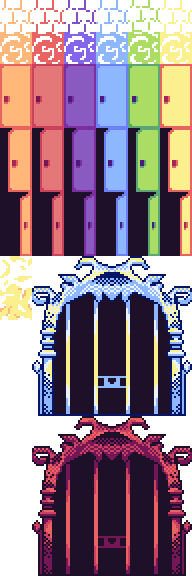
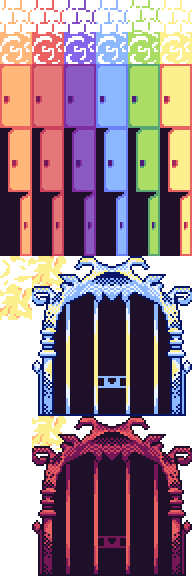
collisions added - small changes in assets * Collisions added, checked in Player for items of current map.   (coins treated seperately, TODO: dont draw when picked up) * Small edits in maps (assets/level-data.json) because coordinates of tile positions were changed. * Small fix in map tiles png

Changed region(s): [[0.1562, 0.7188, 0.3438, 0.7812], [0.1562, 0.4375, 0.3438, 0.5]]

diff --git a/source/tile.js b/source/tile.js
@@ -16,14 +16,14 @@ class Tile {
         this.height = height;
 
         // Fix y coordinate, to align big items with other blocks
-        this.x = x;
-        this.y = ( (width==1 & height==1) ? y : (y + (tilewidth/2)*(height-1)) );
+        this.x = ( (width==1 & height==1) ? x : (x + (tilewidth/2)*(this.width-1)) );
+        this.y = ( (width==1 & height==1) ? y : (y + (tilewidth/2)*(this.height-1)) );
 
         this.sprite = createSprite(this.x, this.y, width*tilewidth, height*tilewidth);
         this.sprite.collider = 'static';
         if (this.type == "tile") {
             this.name = (tile_info[index].split(' '))[0];
-            this.has_collissions = ((tile_info[index].split(' '))[3]) == "y" ? true : false;
+            this.has_collissions = (this.name.startsWith("wall") || this.name.startsWith("door")) ? true : false;
         } else if (this.type == "item") {
             this.name = (item_info[index].split(' '))[0];
             this.has_collissions = ((item_info[index].split(' '))[3]) == "y" ? true : false;
@@ -35,7 +35,7 @@ class Tile {
         this.sprite.changeAnimation("first");
 
         // FOR TESTING (to view some animations) // TODO: remove
-        if (this.name.startsWith("door") || this.name.startsWith("bed") || this.name.startsWith("suitcase") || this.name.startsWith("chest")){
+        if ((this.name.startsWith("door") && !this.name.startsWith("door_paradise") && !this.name.startsWith("door_hell")) || this.name.startsWith("bed") || this.name.startsWith("suitcase") || this.name.startsWith("chest")){
             this.sprite.changeAnimation("animation");
         }
     }
@@ -74,40 +74,27 @@ class Tile {
         if (!this.has_collissions){
             return;
         }
-        if (width == 1 && height == 1){
-            this.collide_bottom = this.sprite.y + tileheight;
-            this.collide_top    = this.sprite.y;
+
+        if (this.height == 1 /*|| (this.name.startsWith("plant") && this.height == 2)*/){
+            this.collide_top = this.sprite.y + tilewidth/2;
+            this.collide_bottom = this.sprite.y + (tilewidth * 3/2);
         } else {
-            this.collide_top    = this.sprite.y + tilewidth;
-            this.collide_bottom = this.sprite.y + this.height * tilewidth;
+            this.collide_top = this.sprite.y - (tilewidth/(this.height*0.5))*(this.height-1);
+            this.collide_bottom = this.collide_top + this.height * tilewidth;
         }
-        this.collide_left  = this.sprite.x - tilewidth;
-        this.collide_right = this.sprite.x + tilewidth;
+
+        if (this.width == 1) {
+            this.collide_left   = this.sprite.x - tilewidth * 3/4;
+            this.collide_right  = this.sprite.x + tilewidth * 3/4;
+        } else {
+            this.collide_left   = this.sprite.x - tilewidth * this.width/2;
+            this.collide_right  = this.sprite.x + tilewidth * this.width/2;
+        }
+        
+        
 
         if (this.name.startsWith("book_leaves")){ // Player shouldn't collide with leaves, obly with book
             this.collide_left = this.collide_left + tilewidth;
-        }
-    }
-
-    /**
-     * Check if block collides with other block.
-     * @param {Tile} tile2 tile to check collision with
-     * @returns true if collission happens, false if not
-     */
-    checkCollision(tile2) {
-        // If one or both items are non-interactive (floor, grass,etc)
-        if (!this.has_collissions || !tile2.has_collissions) {
-            return false;
-        }
-
-        // If both have collision interaction
-        if (this.collide_top   > tile2.bottom 
-        || this.collide_bottom < tile2.top 
-        || this.collide_right  < tile2.left
-        || this.collide_left   > tile2.right) {
-            return false;
-        } else {
-            return true;
         }
     }
 
@@ -154,7 +141,7 @@ class Tile {
         while (true) {
             indexList[i] = index-1;
 
-            if (this.name.startsWith("wall")) {
+            if (this.name.startsWith("wall") || this.name.startsWith("door_paradise") || this.name.startsWith("door_hell")) {
                 break; // walls dont have animation
             }
             

diff --git a/source/player.js b/source/player.js
@@ -4,7 +4,7 @@ class Player {
     this.x = x;
     this.y = y;
     this.index = index - 1
-    this.speed = 3;
+    this.speed = 8;
     this.width = 2;
     this.height = 2;
     this.sprite = createSprite(this.x, this.y, 2 * tilewidth, 2 * tilewidth);
@@ -15,6 +15,8 @@ class Player {
   }
 
   update() {
+    let oldy = this.sprite.position.y;
+    let oldx = this.sprite.position.x;
     if  (kb.pressing(UP_ARROW)) {
       this.sprite.position.y -= this.speed;
       // this.shadow.position.y -= this.speed;
@@ -33,9 +35,25 @@ class Player {
       this.changeAnimation("walking_right");
       // this.shadow.position.x += this.speed;
     }
-    if (this.sprite.overlap(gameMap.coins, this.getCoins)) {
-      this.coins += 1;
 
+    // Check collisions
+    for (let i=0; i<interract_blocks[stage].length; i++) {
+        if (this.checkCollision(interract_blocks[stage][i])) { 
+            console.log("[Collision] Player -",interract_blocks[stage][i].name);
+            if (interract_blocks[stage][i].name.startsWith("coin")) { // coin
+                // Add coin
+                this.coins += 1;
+                // Remove coin from collision detectable items
+                interract_blocks[stage].splice(i, 1);
+                // TODO: not draw coin
+                // IDEA: change animation
+                
+                // console.log(this.coins); // TODO: remove
+            } else { // not coin
+                this.sprite.position.y = oldy;
+                this.sprite.position.x = oldx;
+            }
+        }
     }
   }
 
@@ -64,6 +82,57 @@ class Player {
         console.log("[ERROR] Invalid value given for player animation:", animation);
     }
   }
+
+    /**
+     * Check if player collides with item.
+     * @param {Tile} tile tile to check collision with
+     * @returns true if collission happens, false if not
+     */
+    checkCollision(tile) {
+        // If item is non-interactive (floor, grass,etc)
+        if (!tile.has_collissions) {
+            return false;
+        }
+        let top = this.getTop();
+        let bottom = this.getBottom();
+        let left = this.getLeft();
+        let right = this.getRight();
+
+        let top_bottom = false;
+        if (top < tile.collide_bottom && top > tile.collide_top ||
+            bottom > tile.collide_top && bottom < tile.collide_bottom) {
+                top_bottom = true;
+        }
+
+        let left_right = false;
+        if (left < tile.collide_right && left > tile.collide_left ||
+            right > tile.collide_left && right < tile.collide_right) {
+                left_right = true;
+        }
+        
+
+        if (top_bottom && left_right) {
+            return true;
+        }
+        return false;
+
+    }
+
+    getTop() {
+        return +this.sprite.y + tilewidth *4/6;
+    }
+
+    getBottom() {
+        return +this.sprite.y + this.height * tilewidth;
+    }
+
+    getLeft() {
+        return +this.sprite.x - tilewidth/2;
+    }
+
+    getRight() {
+        return +this.sprite.x + tilewidth/2;
+    }
 
   /**
    * Add animation frames to item.

diff --git a/source/GameMap.js b/source/GameMap.js
@@ -1,10 +1,12 @@
 class GameMap {
   /**
    * @constructor
+   * @param {number} name map name
    * @param {Array<Array<number>>} map_data 2D Array of numbers containing tile info
    * @param {Array<Array<number>>} item_data 2D Array of numbers containing item info
    */
-  constructor(map_data, item_data) {
+  constructor(name, map_data, item_data) {
+    this.name = name;
     this.map_data = map_data;
     this.item_data = item_data;
 
@@ -14,6 +16,8 @@ class GameMap {
     this.items; // interactive items
     this.decoration; // non-interactive items
     this.coins = new Group();
+
+    interract_blocks[this.name] = [];
   }
 
   /**
@@ -47,9 +51,6 @@ class GameMap {
 
     let col = this.map_data.length;
     let row = this.map_data[0].length;
-    // console.log("row = ",row) // TODO: remove (print)
-    // console.log("col = ",col)
-    // console.log("map_data ", map_data[col-1])
     for (let c = 0; c < col; c++) {
       for (let r = 0; r < row; r++) {
 
@@ -58,6 +59,9 @@ class GameMap {
         let width = tile_data[1];
         let height = tile_data[2];
         let tile = new Tile("tile", index, r * tilewidth + tilewidth / 2, c * tilewidth + tilewidth / 2, width, height);
+        if (tile.has_collissions){
+            interract_blocks[this.name].push(tile);
+        }
 
         if (tile.name != null) {
           if (tile.name.startsWith("wall")) {
@@ -66,9 +70,7 @@ class GameMap {
             this.doors.add(tile.sprite);
           } else if (tile.name.startsWith("floor")) {
             this.floors.add(tile.sprite);
-          } else if (tile.name.startsWith("coins")) {
-            this.coins.add(item.sprite);
-          }
+          } 
         }
       }
     }
@@ -93,6 +95,13 @@ class GameMap {
         let height = item_data[2];
         let isInteractive = item_data[3];
         let tile = new Tile("item", index, r * tilewidth + tilewidth / 2, c * tilewidth + tilewidth / 2, width, height);
+        if (tile.has_collissions){
+            interract_blocks[this.name].push(tile);
+        }
+
+        if (tile.name.startsWith("coin")) {
+            this.coins.add(tile.sprite);
+        }
 
         switch (isInteractive) {
           case 'y': // interractive item

diff --git a/sketch.js b/sketch.js
@@ -74,6 +74,8 @@ var tempMap;
 var stage = 0;
 var changeStage = true;
 
+var interract_blocks = []; // interractive blocks for each map
+
 /**
  * Preload asset files.
  */
@@ -90,6 +92,7 @@ function preload() {
  * Set up game.
  */
 function setup() {
+  frameRate(100);
   // Put canvas in center of window
   var cnv = createCanvas(canvaswidth, canvasheight);
   var x = (windowWidth - width) / 2;
@@ -105,7 +108,7 @@ function setup() {
  */
 function createMaps() {
   for (let i = 1; i <= numberOfLevels; i++) {
-    tempMap = new GameMap(level_info[`map_${i}`], level_info[`items_${i}`]);
+    tempMap = new GameMap(i, level_info[`map_${i}`], level_info[`items_${i}`]);
     tempMap.create();
     maps[i] = tempMap;
   }
@@ -115,11 +118,11 @@ function draw() {
   background(0, 0, 0);
 
   if (changeStage) {
-    stage = 7;
+    stage = 5;
   }
 
   gameMap = maps[stage];
   gameMap.draw();
   playerone.draw();
-	playerone.update();
+  playerone.update();
 }
